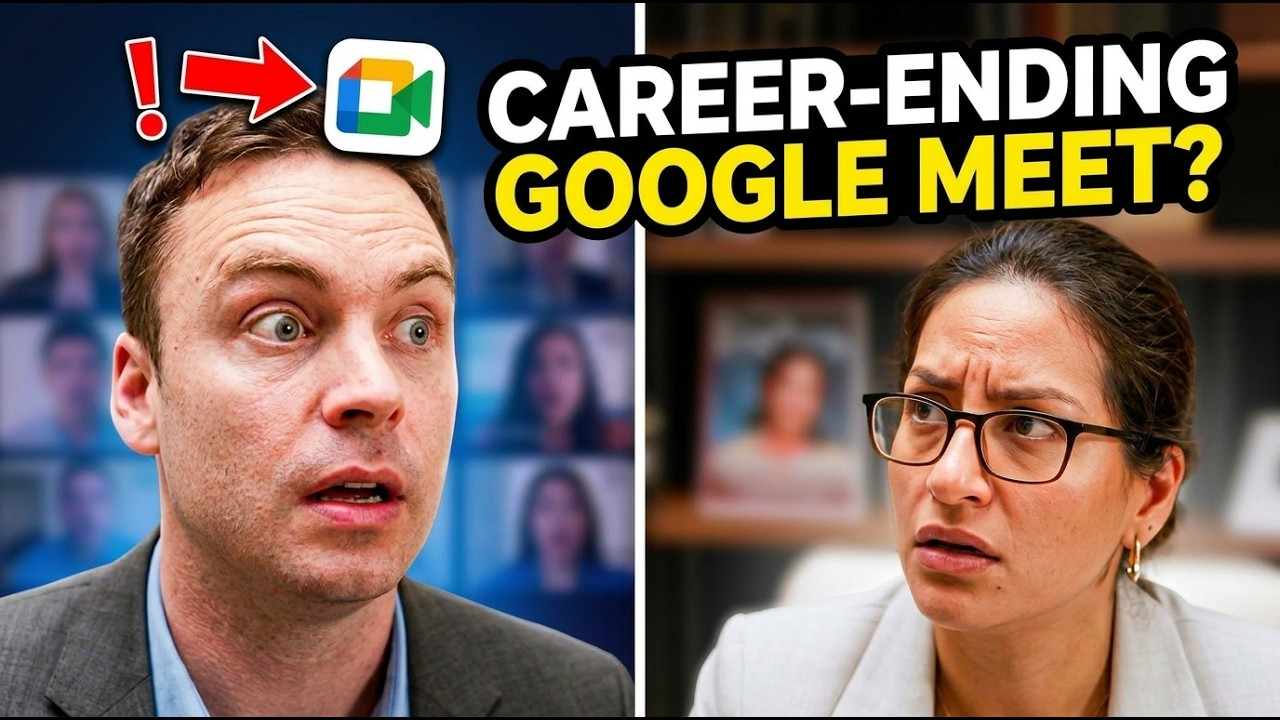
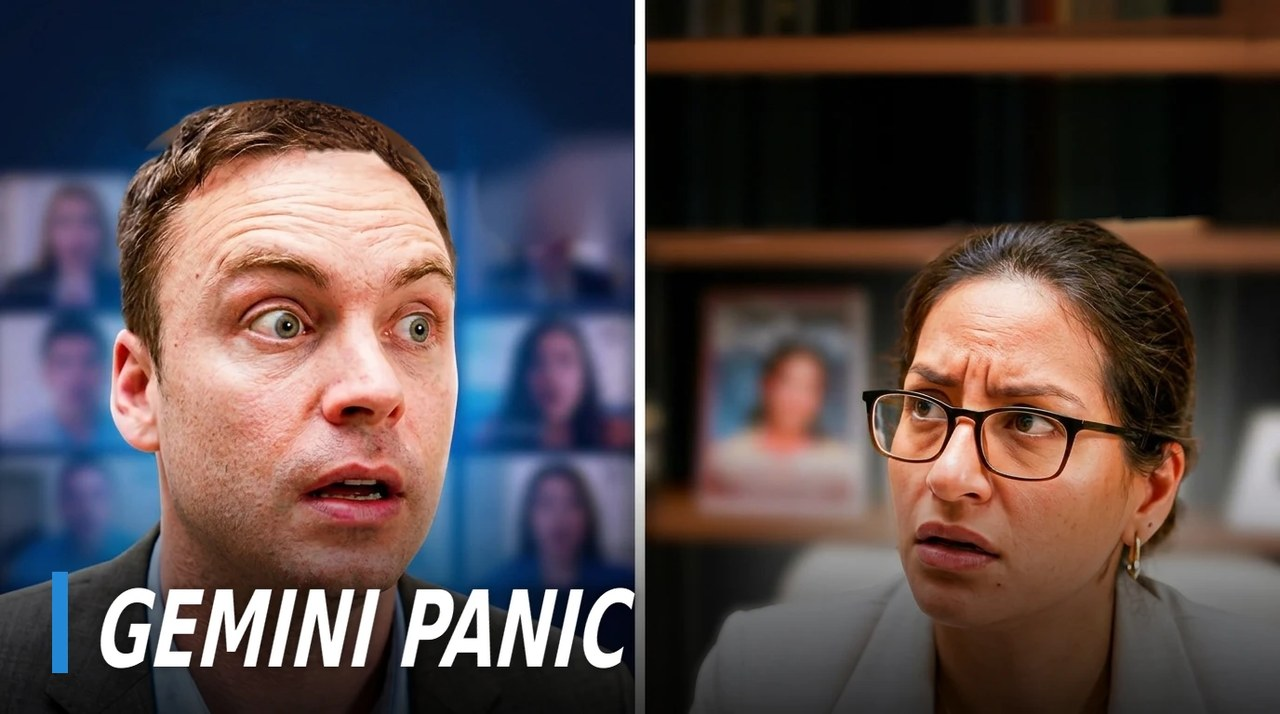
New Gemini Panic thumbnail (supplied) and Connection Pending thumbnail
Use the supplied Gemini Panic image, resized to 1280 wide. Install the
Connection Pending thumbnail with the title band, and hide the duplicate
card captions on both cards (still available to screen readers).
Live4ALongTime AI and Dragon Ads are still to come.

Claude-Session: https://claude.ai/code/session_014y4GfGcAkkGKmsdvDjjrz4

diff --git a/index.html b/index.html
@@ -69,7 +69,7 @@
         <h2 class="row-title" id="latest">Latest</h2>
       </div>
       <div class="row-track">
-        <div class="card" data-yt="Np8Gt_yeb7c" data-title="Gemini Panic" role="button" tabindex="0" aria-label="Play Gemini Panic">
+        <div class="card card--titled" data-yt="Np8Gt_yeb7c" data-title="Gemini Panic" role="button" tabindex="0" aria-label="Play Gemini Panic">
           <div class="card-art">
             <img src="/assets/images/gemini-panic-thumb.jpg" alt="" loading="lazy">
             <span class="card-play" aria-hidden="true"></span>
@@ -99,7 +99,7 @@
             <h3 class="card-name">Dragon Ads</h3>
           </div>
         </div>
-        <div class="card" data-yt="fwvBdCVWhys" data-pillarbox data-title="Connection Pending" role="button" tabindex="0" aria-label="Play Connection Pending">
+        <div class="card card--titled" data-yt="fwvBdCVWhys" data-title="Connection Pending" role="button" tabindex="0" aria-label="Play Connection Pending">
           <div class="card-art">
             <img src="/assets/images/connection-pending-thumb.jpg" alt="" loading="lazy">
             <span class="card-play" aria-hidden="true"></span>

diff --git a/assets/css/styles.css b/assets/css/styles.css
@@ -772,3 +772,11 @@ a { color: inherit; text-decoration: none; }
   .live-band::after { content: ''; position: absolute; inset: 0; z-index: -1; background: rgba(8, 8, 10, 0.5); }
   .live-art img { object-position: 42% 30%; }
 }
+
+/* Thumbnails that already carry the show title in the picture: keep the
+   caption for screen readers but don't draw it on top of the artwork. */
+.card--titled::after { display: none; }
+.card--titled .card-body {
+  position: absolute; width: 1px; height: 1px; padding: 0; margin: -1px;
+  overflow: hidden; clip: rect(0 0 0 0); white-space: nowrap; border: 0;
+}
